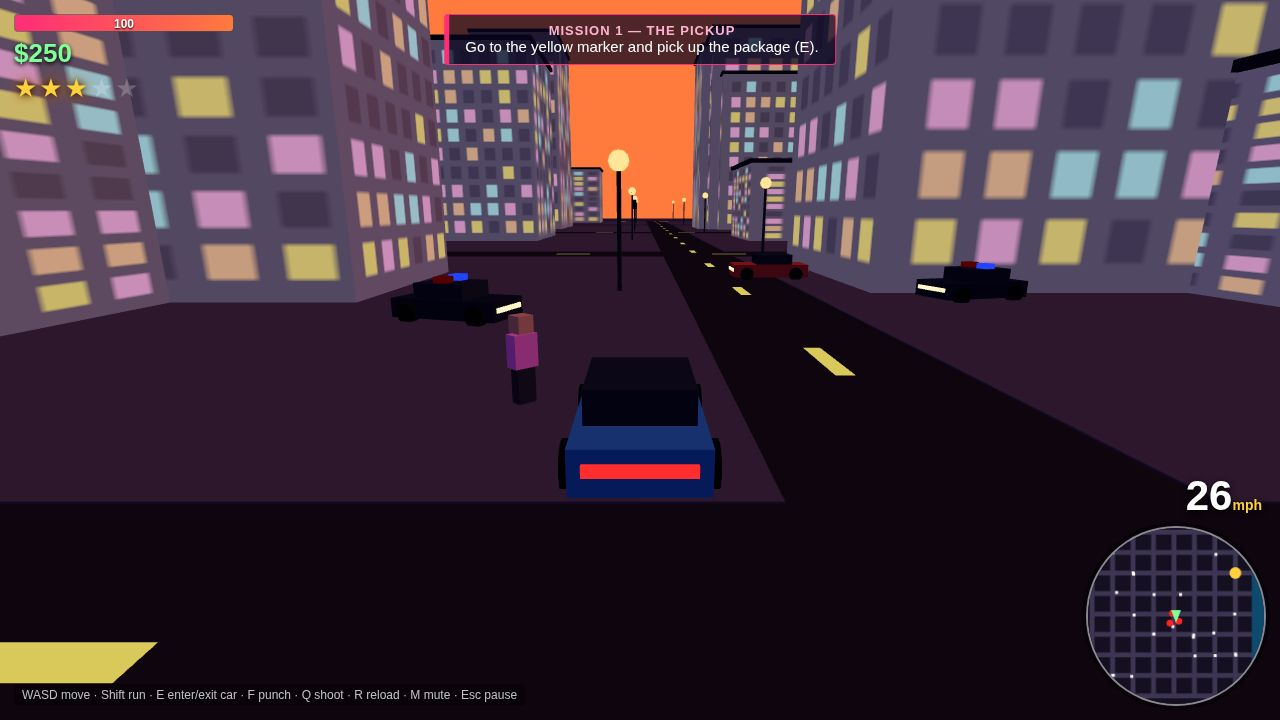
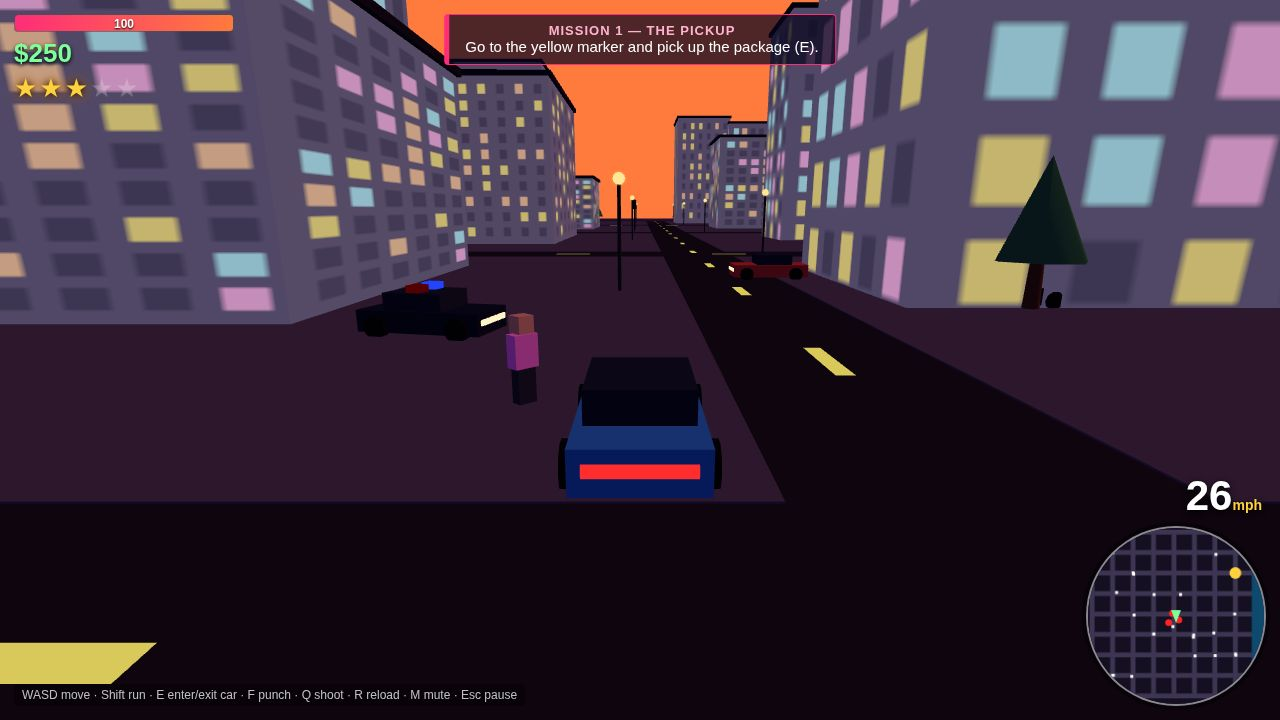
Round 3: fix Mission 2 delivery, car slide + ram balance, visual polish
- Mission 2: drive-in delivery at the chop shop (a fast car overshot the
  8 m radius before E could be pressed, so E just exited the car)
- Cars (player + police) now slide along building faces axis-by-axis
  instead of wedging into corners; police ram damage 60 -> 20 hp/s
- Visuals: 4 window-texture variants across 12 facade materials,
  slimmer street lamps (pole 5.2 m, bulb r 0.3), landmarks: Neon Spire
  tower (plaza block, neon rings) + Harbor Lighthouse with rotating beam
- Play-test handle: audio.debug() exposed via window.__game
- Screenshots retaken; all play-tests pass (M1/M2/M3, shoot/reload,
  siren, Busted, Wasted, no console errors)

Changed region(s): [[0.0, 0.0, 1.0, 0.4889], [0.125, 0.0, 0.1875, 0.0306], [0.9062, 0.8556, 0.9375, 0.8861]]

diff --git a/game/src/city.js b/game/src/city.js
@@ -56,18 +56,31 @@ export function buildCity(scene, seed) {
     }
   }
 
-  // --- buildings: shared geometries/materials, emissive windows via texture ---
-  const winCanvas = document.createElement('canvas'); winCanvas.width = 64; winCanvas.height = 128;
-  const wc = winCanvas.getContext('2d');
-  wc.fillStyle = '#241d33'; wc.fillRect(0, 0, 64, 128);
-  const litCols = ['#ffd23d', '#ff9a5c', '#7de3ff', '#ff7ad9'];
-  for (let y = 6; y < 122; y += 12) for (let x = 6; x < 58; x += 10) {
-    wc.fillStyle = rand() < 0.55 ? litCols[Math.floor(rand() * litCols.length)] : '#14101e';
-    wc.fillRect(x, y, 6, 8);
+  // --- buildings: shared geometries/materials, emissive windows via textures ---
+  // Four window-pattern variants (different grid, lit ratio, palette) so the
+  // towers don't all repeat the same facade; 12 materials = 6 body colours x textures.
+  function makeWinTex(v) {
+    const r = mulberry32(seed * 131 + v * 17 + 5);
+    const cv = document.createElement('canvas'); cv.width = 64; cv.height = 128;
+    const c = cv.getContext('2d');
+    c.fillStyle = '#241d33'; c.fillRect(0, 0, 64, 128);
+    const stepX = [10, 8, 12, 10][v], stepY = [12, 10, 14, 12][v];
+    const wW = [6, 5, 7, 4][v], wH = [8, 6, 9, 7][v];
+    const lit = [0.55, 0.35, 0.7, 0.45][v];
+    const palettes = [['#ffd23d', '#ff9a5c', '#7de3ff', '#ff7ad9'], ['#ffd23d', '#ff9a5c'],
+      ['#7de3ff', '#ff7ad9', '#ffd23d'], ['#ff9a5c', '#ffd23d']];
+    const pal = palettes[v];
+    for (let y = 6; y < 122; y += stepY) for (let x = 6; x < 58; x += stepX) {
+      c.fillStyle = r() < lit ? pal[Math.floor(r() * pal.length)] : '#14101e';
+      c.fillRect(x, y, wW, wH);
+    }
+    return new THREE.CanvasTexture(cv);
   }
-  const winTex = new THREE.CanvasTexture(winCanvas);
-  const bldgMats = [0x3a3450, 0x4a2f4d, 0x2f3d5c, 0x503a2e, 0x37304a, 0x5c2f3d].map(c =>
-    new THREE.MeshLambertMaterial({ color: c, emissive: 0xffffff, emissiveMap: winTex, emissiveIntensity: 0.55 }));
+  const winTexes = [0, 1, 2, 3].map(makeWinTex);
+  const bldgCols = [0x3a3450, 0x4a2f4d, 0x2f3d5c, 0x503a2e, 0x37304a, 0x5c2f3d];
+  const bldgMats = [];
+  for (let i = 0; i < 12; i++) bldgMats.push(new THREE.MeshLambertMaterial({
+    color: bldgCols[i % bldgCols.length], emissive: 0xffffff, emissiveMap: winTexes[i % winTexes.length], emissiveIntensity: 0.55 }));
   const boxGeo = new THREE.BoxGeometry(1, 1, 1);
   const roofMat = new THREE.MeshLambertMaterial({ color: 0x1a1622 });
 
@@ -76,6 +89,9 @@ export function buildCity(scene, seed) {
     const x0 = -200 + bx * 50, z0 = -200 + bz * 50;
     const isHarbourBlock = x0 > 160; // east edge blocks are the harbour strip
     if (isHarbourBlock) continue;
+    // block (3,3) is the plaza of the Neon Spire landmark — no random buildings
+    const isPlazaBlock = bx === 3 && bz === 3;
+    if (!isPlazaBlock) {
     // 1-3 buildings per block, placed on a sub-grid
     const n = 1 + Math.floor(rand() * 3);
     for (let k = 0; k < n; k++) {
@@ -97,9 +113,28 @@ export function buildCity(scene, seed) {
         sign.position.set(m.position.x, h + 1.2, m.position.z); scene.add(sign);
       }
     }
+    } // end plaza-block skip
     // sidewalk slab
     const walk = new THREE.Mesh(walkGeo, walkMat); walk.position.set(x0 + 20, 0.02, z0 + 20); scene.add(walk);
   }
+
+  // --- landmarks: Neon Spire tower (plaza block 3,3, centre -30,-30) ---
+  const spireBase = new THREE.Mesh(boxGeo, new THREE.MeshLambertMaterial({ color: 0x2f2a3d }));
+  spireBase.scale.set(16, 8, 16); spireBase.position.set(-30, 4, -30); scene.add(spireBase);
+  const spireShaft = new THREE.Mesh(boxGeo, new THREE.MeshLambertMaterial({ color: 0x4a2f4d, emissive: 0xffffff, emissiveMap: winTexes[2], emissiveIntensity: 0.4 }));
+  spireShaft.scale.set(9, 34, 9); spireShaft.position.set(-30, 25, -30); scene.add(spireShaft);
+  const spireCrown = new THREE.Mesh(boxGeo, new THREE.MeshLambertMaterial({ color: 0x2f2a3d }));
+  spireCrown.scale.set(11, 4, 11); spireCrown.position.set(-30, 44, -30); scene.add(spireCrown);
+  const spireAntenna = new THREE.Mesh(new THREE.CylinderGeometry(0.25, 0.25, 8, 6), new THREE.MeshLambertMaterial({ color: 0x222226 }));
+  spireAntenna.position.set(-30, 50, -30); scene.add(spireAntenna);
+  const spireBeacon = new THREE.Mesh(new THREE.SphereGeometry(0.7, 8, 6), new THREE.MeshBasicMaterial({ color: 0xff2d2d }));
+  spireBeacon.position.set(-30, 54.4, -30); scene.add(spireBeacon);
+  const ringCols = [0xff2d78, 0x00e5ff, 0xffd23d];
+  for (let i = 0; i < 3; i++) {
+    const ring = new THREE.Mesh(new THREE.TorusGeometry(6.8, 0.35, 8, 32), new THREE.MeshBasicMaterial({ color: ringCols[i] }));
+    ring.rotation.x = Math.PI / 2; ring.position.set(-30, 12 + i * 12, -30); scene.add(ring);
+  }
+  colliders.push({ minX: -38, maxX: -22, minZ: -38, maxZ: -22 });
 
   // --- harbour: water plane + pier + containers + crane ---
   const water = new THREE.Mesh(new THREE.PlaneGeometry(120, 420), new THREE.MeshLambertMaterial({ color: 0x0e4a6e }));
@@ -118,18 +153,39 @@ export function buildCity(scene, seed) {
     colliders.push({ minX: px - 5, maxX: px + 5, minZ: pz - 1.7, maxZ: pz + 1.7 });
   }
 
-  // --- street lamps along roads ---
-  const poleGeo = new THREE.CylinderGeometry(0.12, 0.12, 6, 6);
+  // --- lighthouse at the north end of the pier (rotating beam) ---
+  const lhBase = new THREE.Mesh(new THREE.CylinderGeometry(3, 3.4, 2, 10), new THREE.MeshLambertMaterial({ color: 0x3a3a40 }));
+  lhBase.position.set(198, 1, -178); scene.add(lhBase);
+  const lhStripeCols = [0xe8e4da, 0xd83d2e, 0xe8e4da];
+  for (let i = 0; i < 3; i++) {
+    const seg = new THREE.Mesh(new THREE.CylinderGeometry(2.2, 2.2, 5, 10), new THREE.MeshLambertMaterial({ color: lhStripeCols[i] }));
+    seg.position.set(198, 4.5 + i * 5, -178); scene.add(seg);
+  }
+  const lhGallery = new THREE.Mesh(new THREE.CylinderGeometry(3, 3, 1, 10), new THREE.MeshLambertMaterial({ color: 0x222226 }));
+  lhGallery.position.set(198, 17.5, -178); scene.add(lhGallery);
+  const lhLamp = new THREE.Mesh(new THREE.CylinderGeometry(1.6, 1.6, 2, 10), new THREE.MeshBasicMaterial({ color: 0xffe9a8 }));
+  lhLamp.position.set(198, 19, -178); scene.add(lhLamp);
+  const beacon = new THREE.Group();
+  beacon.position.set(198, 19, -178);
+  const beamMat = new THREE.MeshBasicMaterial({ color: 0xfff2b0, transparent: true, opacity: 0.22, blending: THREE.AdditiveBlending, depthWrite: false });
+  const beamGeo = new THREE.BoxGeometry(30, 1.4, 1.4);
+  const beam1 = new THREE.Mesh(beamGeo, beamMat); beam1.position.x = 15; beacon.add(beam1);
+  const beam2 = new THREE.Mesh(beamGeo, beamMat); beam2.position.x = -15; beacon.add(beam2);
+  scene.add(beacon);
+  colliders.push({ minX: 195, maxX: 201, minZ: -181, maxZ: -175 });
+
+  // --- street lamps along roads (slim: thin pole, small bulb) ---
+  const poleGeo = new THREE.CylinderGeometry(0.1, 0.1, 5.2, 6);
   const poleMat = new THREE.MeshLambertMaterial({ color: 0x222226 });
-  const lampGeo = new THREE.SphereGeometry(0.5, 8, 6);
+  const lampGeo = new THREE.SphereGeometry(0.3, 8, 6);
   const lampMat = new THREE.MeshBasicMaterial({ color: 0xffe9a8 });
   const lampLightMat = new THREE.MeshBasicMaterial({ color: 0xffd23d, transparent: true, opacity: 0.15 });
   for (const c of roadLines) for (let d = -180; d <= 180; d += 50) {
     for (const [lx, lz] of [[c + 6, d], [c - 6, d + 25]]) {
       if (Math.abs(lx) > 195 || Math.abs(lz) > 195) continue;
-      const pole = new THREE.Mesh(poleGeo, poleMat); pole.position.set(lx, 3, lz); scene.add(pole);
-      const lamp = new THREE.Mesh(lampGeo, lampMat); lamp.position.set(lx, 6.2, lz); scene.add(lamp);
-      const glow = new THREE.Mesh(new THREE.SphereGeometry(0.55, 8, 6), lampLightMat); glow.position.set(lx, 6.2, lz); scene.add(glow);
+      const pole = new THREE.Mesh(poleGeo, poleMat); pole.position.set(lx, 2.6, lz); scene.add(pole);
+      const lamp = new THREE.Mesh(lampGeo, lampMat); lamp.position.set(lx, 5.4, lz); scene.add(lamp);
+      const glow = new THREE.Mesh(new THREE.SphereGeometry(0.38, 8, 6), lampLightMat); glow.position.set(lx, 5.4, lz); scene.add(glow);
     }
   }
 
@@ -180,7 +236,7 @@ export function buildCity(scene, seed) {
   }
 
   return {
-    colliders, roadLines, rectLoops,
+    colliders, roadLines, rectLoops, beacon,
     // All key points sit on road intersections (road centrelines), never inside a block,
     // so the player is never pushed out of a building footprint on spawn or delivery.
     spawn: { x: -55, z: 145 },           // Mara's garage (south-west intersection)

diff --git a/game/src/main.js b/game/src/main.js
@@ -420,8 +420,14 @@ function updatePlayer(dt) {
     if (Math.abs(car.speed) > 0.5) car.heading += steer * 1.9 * dt * Math.sign(car.speed) * clamp(Math.abs(car.speed) / 8, 0.3, 1);
     const nx = car.group.position.x + Math.sin(car.heading) * car.speed * dt;
     const nz = car.group.position.z + Math.cos(car.heading) * car.speed * dt;
+    // axis-separated movement: a car sliding along a building face keeps moving
+    // on the free axis instead of wedging itself into a corner
     if (!pointInCollider(nx, nz, 1.4) && nx > -198 && nx < 182 && nz > -198 && nz < 198) {
       car.group.position.x = nx; car.group.position.z = nz;
+    } else if (!pointInCollider(nx, car.group.position.z, 1.4) && nx > -198 && nx < 182) {
+      car.group.position.x = nx;
+    } else if (!pointInCollider(car.group.position.x, nz, 1.4) && nz > -198 && nz < 198) {
+      car.group.position.z = nz;
     } else car.speed *= 0.4;
     car.group.rotation.y = car.heading;
     player.pos.copy(car.group.position);
@@ -455,6 +461,14 @@ function updatePlayer(dt) {
     player.mesh.position.y = moving ? Math.abs(Math.sin(G.time * 10)) * 0.08 : 0;
     G.speed = 0;
     audio.setEngine(0, false);
+  }
+  // mission 2 drive-in delivery: rolling the target car into the chop shop
+  // completes it (no E press needed — a fast car would otherwise overshoot
+  // the 8 m radius before the player can press E)
+  if (G.missionIdx === 1 && G.missionStage === 1 && G.inCar && G.car === G.targetCar &&
+      dist2d(G.car.group.position.x, G.car.group.position.z, city.chopShop.x, city.chopShop.z) < 8) {
+    completeMission();
+    return;
   }
   // mission timer
   if (G.missionIdx === 2 && G.missionStage === 1 && G.missionTimer > 0) {
@@ -502,10 +516,12 @@ function updatePoliceCars(dt) {
     const nx = pc.group.position.x + Math.sin(pc.heading) * pc.speed * dt;
     const nz = pc.group.position.z + Math.cos(pc.heading) * pc.speed * dt;
     if (!pointInCollider(nx, nz, 1.4) && nx > -198 && nx < 182 && nz > -198 && nz < 198) { pc.group.position.x = nx; pc.group.position.z = nz; }
+    else if (!pointInCollider(nx, pc.group.position.z, 1.4) && nx > -198 && nx < 182) { pc.group.position.x = nx; }
+    else if (!pointInCollider(pc.group.position.x, nz, 1.4) && nz > -198 && nz < 198) { pc.group.position.z = nz; }
     else pc.speed *= 0.5;
     pc.group.rotation.y = pc.heading;
-    // ram damage to player car
-    if (G.inCar && d < 3.5 && Math.abs(pc.speed) > 5) { G.health -= 6 * dt * 10; }
+    // ram damage to player car (was 60 hp/s: a stuck car died in ~2 s of contact)
+    if (G.inCar && d < 3.5 && Math.abs(pc.speed) > 5) { G.health -= 2 * dt * 10; }
     // flash lights
     if (pc.lights) { const on = Math.floor(G.time * 4) % 2 === 0; pc.lights[0].color.setHex(on ? 0xff2222 : 0x550000); pc.lights[1].color.setHex(on ? 0x000055 : 0x2244ff); }
   }
@@ -720,6 +736,7 @@ function frame(now) {
     }
   }
   updateCamera(dt);
+  if (city.beacon) city.beacon.rotation.y = G.time * 0.7; // lighthouse beam sweep
   if (G.screen === 'play') { drawMinimap(); updateHUD(dt); }
   renderer.render(scene, camera);
 }
@@ -737,4 +754,4 @@ if (SHOT) {
 }
 
 // debug handle for play-testing
-window.__game = { G, player, cars, peds, cops, startGame, missionTarget, saveGame, loadSave };
+window.__game = { G, player, cars, peds, cops, audio, startGame, missionTarget, saveGame, loadSave };

diff --git a/game/src/audio.js b/game/src/audio.js
@@ -40,5 +40,7 @@ export function createAudio() {
     busted() { blip(440, 0.3, 'sawtooth', 0.15); setTimeout(() => blip(330, 0.5, 'sawtooth', 0.15), 200); },
     toggleMute() { muted = !muted; if (ctx) { if (engineGain) engineGain.gain.value = 0; if (sirenGain) sirenGain.gain.value = 0; } return muted; },
     isMuted() { return muted; },
+    // play-test handle: current WebAudio state (no gameplay effect)
+    debug() { return { muted, hasCtx: !!ctx, state: ctx ? ctx.state : 'none', siren: sirenGain ? +sirenGain.gain.value.toFixed(3) : 0, engine: engineGain ? +engineGain.gain.value.toFixed(3) : 0 }; },
   };
 }

diff --git a/README.md b/README.md
@@ -10,12 +10,12 @@ You are **Jax Marlowe**, wheelman for **Mara Voss** and her crew in Neon Bay, a 
 
 ## Features
 
-- **Open city** — 8×8 blocks (~400×400 m) of roads, lit towers, sidewalks, street lamps, traffic lights, trees, hydrants, benches, and a harbour with water, pier, containers, and cranes. Dusk sky, fog, neon signs.
+- **Open city** — 8×8 blocks (~400×400 m) of roads, lit towers with varied window facades, sidewalks, slim street lamps, traffic lights, trees, hydrants, benches, and a harbour with water, pier, containers, and cranes. Landmarks: the **Neon Spire** tower (tallest in the city, neon rings) and the **Harbor Lighthouse** with a sweeping beam. Dusk sky, fog, neon signs.
 - **On foot** — third-person WASD movement, mouse-drag orbit camera, Shift to run, Space handbrake in cars, F to punch, Q / right-click to shoot (hitscan pistol, 12 rounds, R reloads).
 - **Driving** — arcade physics (accelerate, steer, brake, handbrake), chase camera, speedometer. Press E near a car to steal it (+1 wanted star).
 - **Living streets** — 12 AI traffic cars looping the roads, 20 pedestrians who walk the sidewalks and flee from danger.
 - **Wanted 0–5 stars** — stealing cars, hitting pedestrians, and punching cops raise your heat. Police cruisers chase and ram you; foot cops chase and beat you down. Get **Busted** or **Wasted** and you wake up at the hospital minus 20% of your cash.
-- **3 story missions** — *The Pickup* ($150), *Hot Wheels* ($300), *Harbor Run* ($500, timed), with waypoint beams, minimap blips, and objective banners.
+- **3 story missions** — *The Pickup* ($150), *Hot Wheels* ($300, drive the stolen car into the chop shop), *Harbor Run* ($500, timed), with waypoint beams, minimap blips, and objective banners.
 - **HUD** — health bar, cash, wanted stars, objective banner, speedometer, and a 2D top-down minimap (player arrow, police blips, mission blip, cars).
 - **Save / pause** — title screen with Start New / Continue (localStorage), Esc to pause, Busted/Wasted respawn screens.
 - **Audio** — 100% procedural WebAudio: engine hum that follows speed, two-tone siren, pickup blips, punch and gunshot sounds. M mutes.
